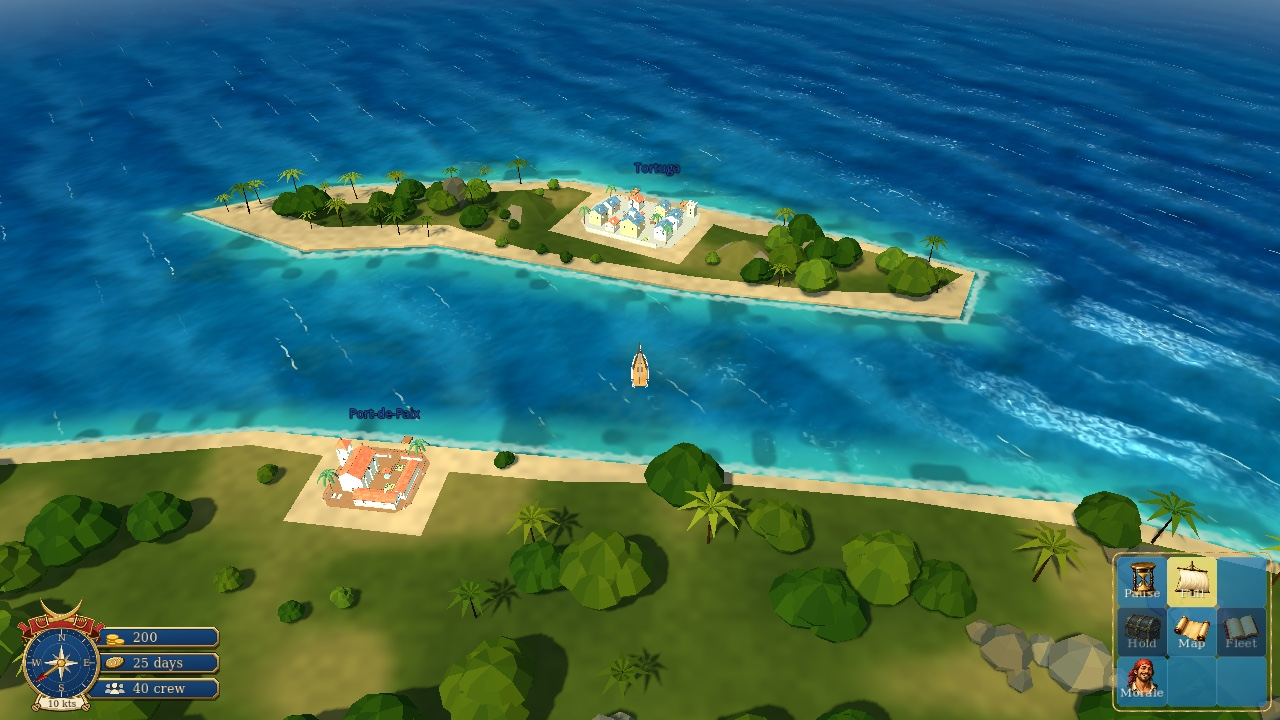
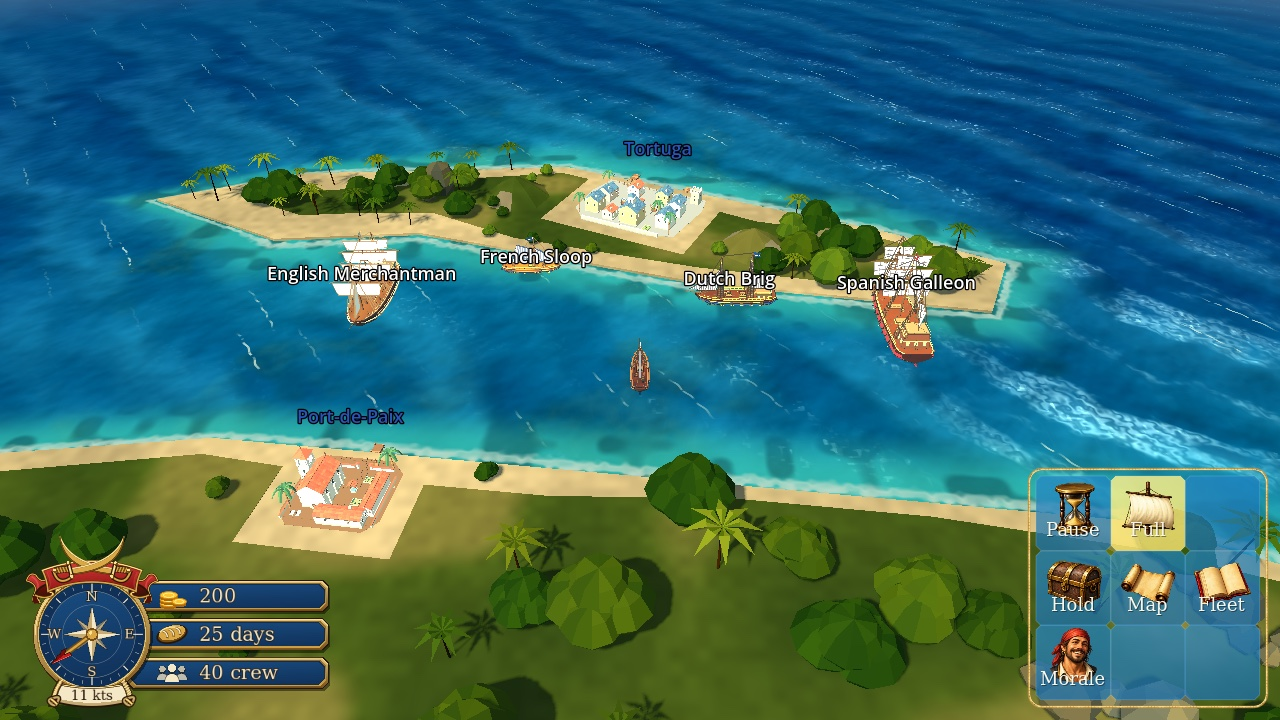
Update README and screenshots for the v0.31 build
Recapture every screenshot from the v0.31 game and add two more:
the journal with contracts and a treasure map, and a landing party
ashore. The hero shot now shows nearby ships labelled by nation and
type. The feature table reflects the current game (40 ports, labelled
traffic, fleeing merchants and chasing warships, volley-firing
captains, the new 3D duels, price book, hold and fleet panels) and the
download notes mention the ~45 MB game pack.

diff --git a/README.md b/README.md
@@ -16,7 +16,7 @@
 </p>
 
 <p align="center">
-  <img src="media/sailing.jpg" width="100%" alt="Sailing a sloop between Tortuga and Port-de-Paix">
+  <img src="media/sailing.jpg" width="100%" alt="Sailing a sloop through the channel between Tortuga and Port-de-Paix, with other ships labelled by nation and type">
 </p>
 
 ## Overview
@@ -37,19 +37,19 @@ The game is built in Godot 4.7 by a solo developer with AI assistance. The sourc
 
 | | |
 |---|---|
-| **Sail** | A 3D Caribbean seen from a pitched follow camera, with wind, tacking, 22 ports and islands you can go ashore on. |
-| **Fight** | Naval battles with eight hull types, round, chain and grape shot, smarter AI captains and timed 3D boarding duels. |
-| **Trade & plunder** | Buy low and sell high across port markets, capture prizes, intercept the Spanish treasure fleet and hunt named rivals. |
-| **Run a crew** | Hire in taverns, keep them fed and paid, manage morale, repair and refit at the shipyard. |
-| **Build a career** | Commissions and standing with four nations, jobs and missions, treasure maps, skills and titles, retirement and a career book. |
-| **Play together** | A persistent shared world on a dedicated server, with a shared pause and server-side saving. |
+| **Sail** | A 3D Caribbean seen from a pitched follow camera, with wind and tacking, 40 ports of four nations, and islands you can go ashore on. Nearby ships are labelled by nation and type, merchants run from pirates, warships give chase, and music plays as you sail. |
+| **Fight** | Naval battles with eight hull types and round, chain and grape shot. Enemy captains fire their broadsides as volleys, keep the weather gauge, lead their shots and flee downwind. Boarding ends in a timed 3D sword duel on deck. |
+| **Trade & plunder** | Buy low and sell high across port markets with a price book, capture prizes, intercept the Spanish treasure fleet and hunt named rivals in their home waters. |
+| **Run a crew** | Hire in taverns, keep them fed and paid, manage morale and wages, check the hold and fleet at sea, repair and refit at the shipyard and store spare ships. |
+| **Build a career** | Commissions and standing with four nations, jobs and contracts, treasure maps, skills and titles, retirement and a career book. |
+| **Play together** | A persistent shared world on a dedicated server for up to four captains, with a shared pause and server-side saving. |
 
 ## Screenshots
 
 <table>
   <tr>
     <td width="50%"><img src="media/battle.jpg" alt="A galleon fires both broadsides"><br><sub>A galleon fires both broadsides.</sub></td>
-    <td width="50%"><img src="media/duel.jpg" alt="A boarding duel"><br><sub>Boarding duel on deck.</sub></td>
+    <td width="50%"><img src="media/duel.jpg" alt="Crossing swords with a rival captain on deck"><br><sub>Crossing swords with a rival captain.</sub></td>
   </tr>
   <tr>
     <td width="50%"><img src="media/port.jpg" alt="Docked at Tortuga"><br><sub>Docked at Tortuga.</sub></td>
@@ -59,11 +59,15 @@ The game is built in Godot 4.7 by a solo developer with AI assistance. The sourc
     <td width="50%"><img src="media/tavern.jpg" alt="The tavern"><br><sub>Hiring crew in the tavern.</sub></td>
     <td width="50%"><img src="media/shipyard.jpg" alt="The shipyard"><br><sub>Repairs and fittings at the shipyard.</sub></td>
   </tr>
+  <tr>
+    <td width="50%"><img src="media/journal.jpg" alt="The journal, with contracts and a treasure map"><br><sub>Contracts and a half-found treasure map in the journal.</sub></td>
+    <td width="50%"><img src="media/ashore.jpg" alt="A landing party ashore"><br><sub>A landing party goes ashore to dig.</sub></td>
+  </tr>
 </table>
 
 ## Download
 
-Grab the latest build from [Releases](https://github.com/dnldxn/tortuga-releases/releases/latest), unpack it and run it.
+Grab the latest build from [Releases](https://github.com/dnldxn/tortuga-releases/releases/latest), unpack it and run it. The game itself is about 45 MB; the full archives below also include the engine.
 
 | Platform | File |
 |---|---|
